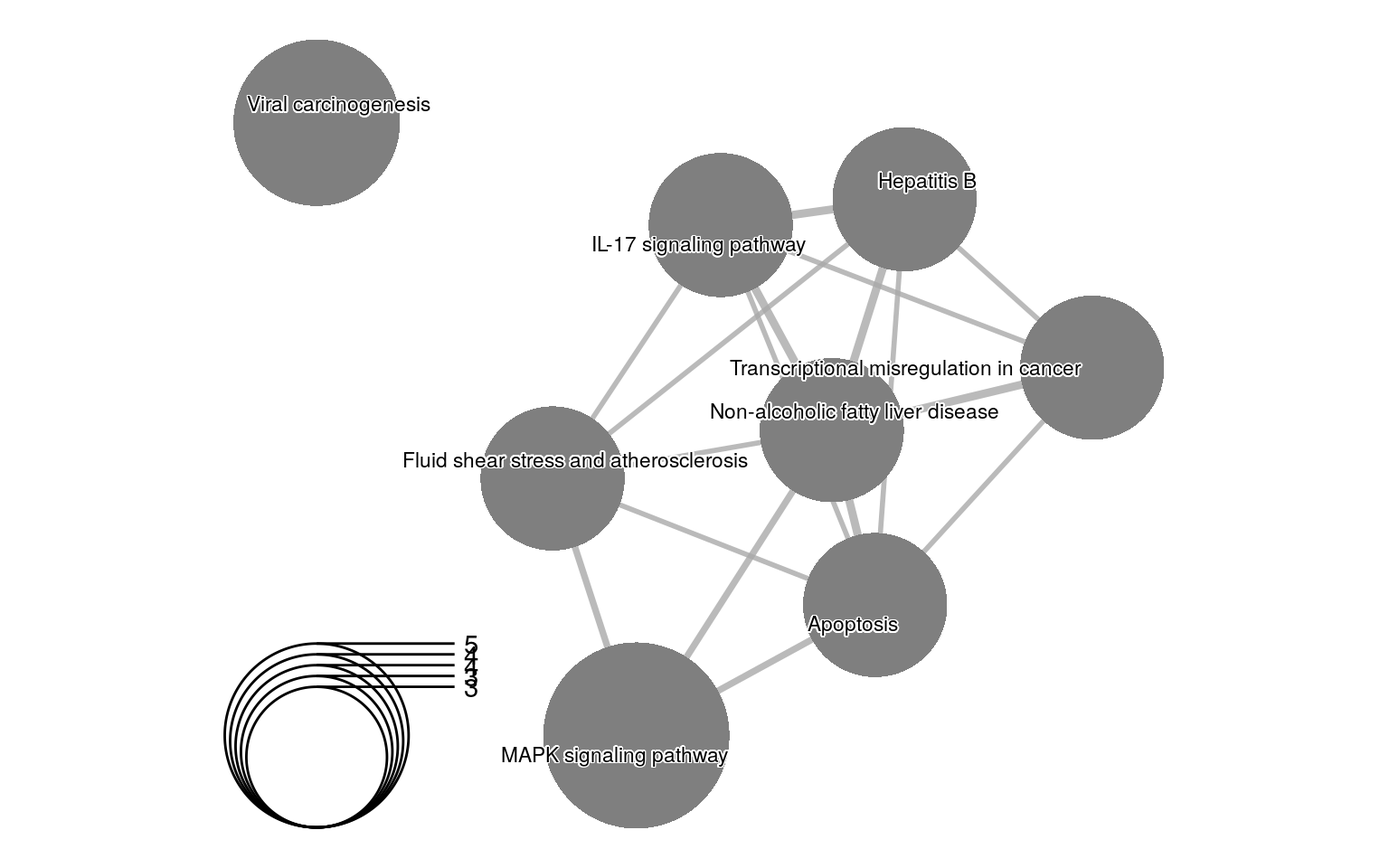
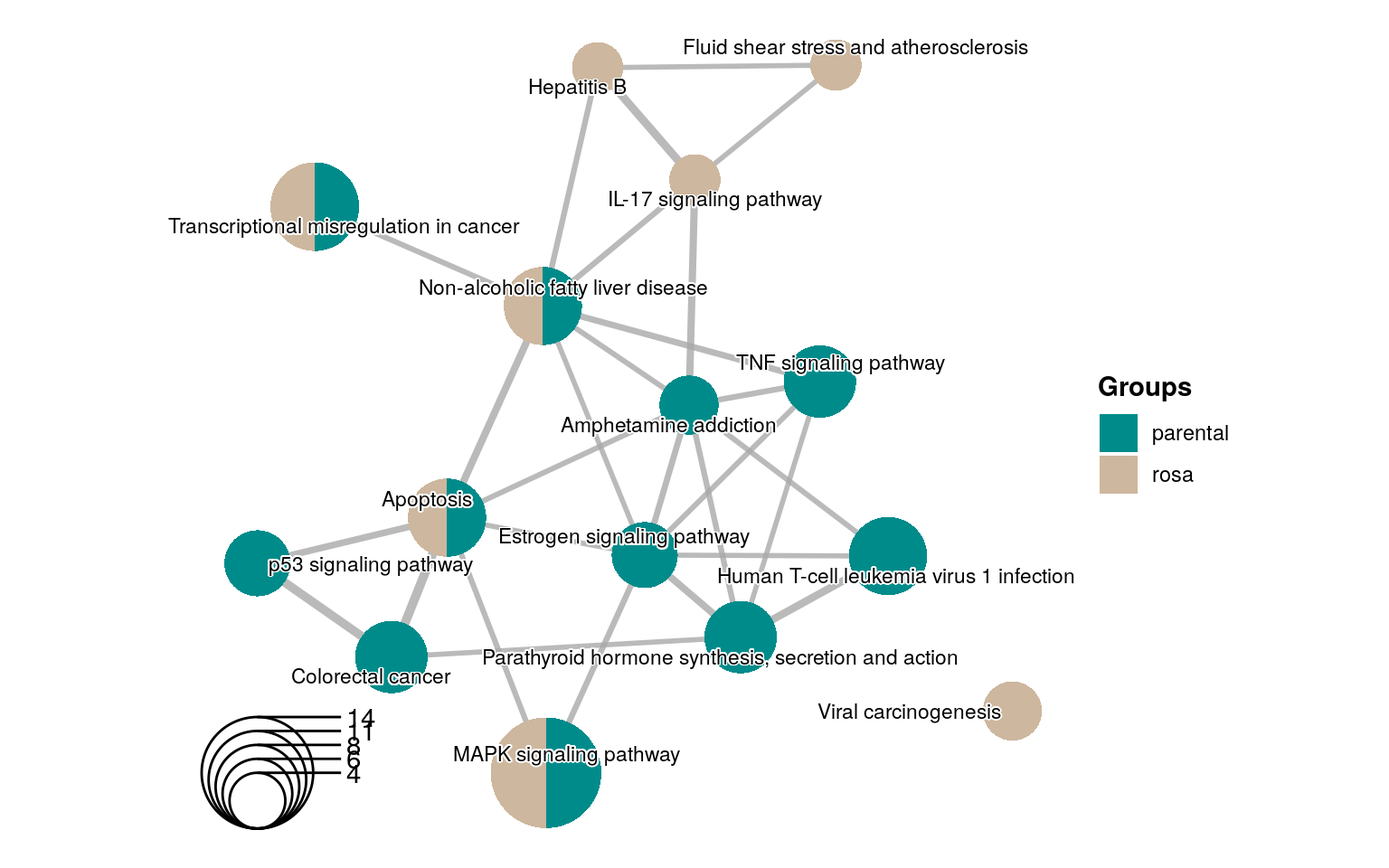
Built site for enrichViewNet: 1.1.1@1960a10

Changed region(s): [[0.125, 0.0312, 0.875, 0.9688], [0.5938, 0.7812, 0.75, 0.875], [0.6875, 0.5312, 0.7188, 0.5938]]

diff --git a/articles/enrichViewNet.html b/articles/enrichViewNet.html
@@ -6,7 +6,7 @@
 <meta name="generator" content="pandoc">
 <meta http-equiv="X-UA-Compatible" content="IE=EDGE">
 <meta name="author" content="Astrid Deschênes, Pascal Belleau, Robert L Faure and Maria J Fernandes">
-<meta name="date" content="2024-04-08">
+<meta name="date" content="2024-04-09">
 <title>From functional enrichment results to biological networks</title>
 <script src="enrichViewNet_files/jquery-3.6.0/jquery-3.6.0.min.js"></script><meta name="viewport" content="width=device-width, initial-scale=1">
 <link href="enrichViewNet_files/bootstrap-3.3.5/css/bootstrap.min.css" rel="stylesheet">
@@ -243,7 +243,7 @@ function toggle_visibility(id1) {
 
 <h1 class="title toc-ignore">From functional enrichment results to biological networks</h1>
 <p class="author-name">Astrid Deschênes, Pascal Belleau, Robert L Faure and Maria J Fernandes</p>
-<h4 class="date">8 April 2024</h4>
+<h4 class="date">9 April 2024</h4>
 
 </div>
 
@@ -278,20 +278,21 @@ function toggle_visibility(id1) {
 </ul>
 </li>
 <li>
-<a href="#transforming-enrichment-results-into-an-enrichment-map-with-groups" id="toc-transforming-enrichment-results-into-an-enrichment-map-with-groups"><span class="toc-section-number">8</span> Transforming enrichment results into an enrichment map with groups</a>
+<a href="#transforming-enrichment-results-into-an-enrichment-map-with-groups-from-different-enrichment-analyses" id="toc-transforming-enrichment-results-into-an-enrichment-map-with-groups-from-different-enrichment-analyses"><span class="toc-section-number">8</span> Transforming enrichment results into an enrichment map with groups from different enrichment analyses</a>
 <ul>
 <li><a href="#create-an-enrichment-map-using-multiple-enrichment-analyses" id="toc-create-an-enrichment-map-using-multiple-enrichment-analyses"><span class="toc-section-number">8.1</span> Create an enrichment map using multiple enrichment analyses</a></li>
+<li><a href="#effect-of-seed-value-1" id="toc-effect-of-seed-value-1"><span class="toc-section-number">8.2</span> Effect of <em>seed</em> value</a></li>
+<li><a href="#enrichment-map-customization-1" id="toc-enrichment-map-customization-1"><span class="toc-section-number">8.3</span> Enrichment map customization</a></li>
+</ul>
+</li>
 <li>
-<a href="#create-an-enrichment-map-using-subsections-of-one-enrichment-analysis" id="toc-create-an-enrichment-map-using-subsections-of-one-enrichment-analysis"><span class="toc-section-number">8.2</span> Create an enrichment map using subsections of one enrichment analysis</a>
+<a href="#transforming-enrichment-results-into-an-enrichment-map-with-groups-from-same-enrichment-analysis" id="toc-transforming-enrichment-results-into-an-enrichment-map-with-groups-from-same-enrichment-analysis"><span class="toc-section-number">9</span> Transforming enrichment results into an enrichment map with groups from same enrichment analysis</a>
 <ul>
-<li><a href="#effect-of-seed-value-1" id="toc-effect-of-seed-value-1"><span class="toc-section-number">8.2.1</span> Effect of <em>seed</em> value</a></li>
-<li><a href="#enrichment-map-customization-1" id="toc-enrichment-map-customization-1"><span class="toc-section-number">8.2.2</span> Enrichment map customization</a></li>
+<li><a href="#create-an-enrichment-map-using-subsections-of-one-enrichment-analysis" id="toc-create-an-enrichment-map-using-subsections-of-one-enrichment-analysis"><span class="toc-section-number">9.1</span> Create an enrichment map using subsections of one enrichment analysis</a></li>
 </ul>
 </li>
-</ul>
-</li>
-<li><a href="#acknowledgments" id="toc-acknowledgments"><span class="toc-section-number">9</span> Acknowledgments</a></li>
-<li><a href="#session-info" id="toc-session-info"><span class="toc-section-number">10</span> Session info</a></li>
+<li><a href="#acknowledgments" id="toc-acknowledgments"><span class="toc-section-number">10</span> Acknowledgments</a></li>
+<li><a href="#session-info" id="toc-session-info"><span class="toc-section-number">11</span> Session info</a></li>
 <li><a href="#references" id="toc-references">References</a></li>
 </ul>
 </div>
@@ -301,7 +302,7 @@ Pascal Belleau [aut] (<a href="https://orcid.org/0000-0002-0802-1071" class="ext
 Robert L. Faure [aut] (<a href="https://orcid.org/0000-0003-1798-4723" class="external-link uri">https://orcid.org/0000-0003-1798-4723</a>),
 Maria J. Fernandes [aut] (<a href="https://orcid.org/0000-0002-3973-025X" class="external-link uri">https://orcid.org/0000-0002-3973-025X</a>),
 Alexander Krasnitz [aut],
-David A. Tuveson [aut] (<a href="https://orcid.org/0000-0002-8017-2712" class="external-link uri">https://orcid.org/0000-0002-8017-2712</a>)<br><strong>Version</strong>: 1.1.1<br><strong>Compiled date</strong>: 2024-04-08<br><strong>License</strong>: Artistic-2.0<br></p>
+David A. Tuveson [aut] (<a href="https://orcid.org/0000-0002-8017-2712" class="external-link uri">https://orcid.org/0000-0002-8017-2712</a>)<br><strong>Version</strong>: 1.1.1<br><strong>Compiled date</strong>: 2024-04-09<br><strong>License</strong>: Artistic-2.0<br></p>
 <div class="section level2" number="1">
 <h2 id="licensing">
 <span class="header-section-number">1</span> Licensing<a class="anchor" aria-label="anchor" href="#licensing"></a>
@@ -411,8 +412,9 @@ genes cluster together. This type of graphs facilitate the
 identification of functional modules.</p>
 <div class="figure" style="text-align: center">
 <span style="display:block;" id="fig:graphDemo02"></span>
-<img src="demo_KEGG_emap_v01.jpeg" alt="An enrichment map using significant Kegg terms." width="95%"><p class="caption">
-Figure 2: <span class="caption-title">An enrichment map using significant Kegg terms</span><br></p>
+<img src="demo_KEGG_emap_v01.jpeg" alt="An enrichment map using significant Kegg terms. Edges connecting terms with overlapping genes." width="95%"><p class="caption">
+Figure 2: <span class="caption-title">An enrichment map using significant Kegg terms</span><br>Edges connecting terms with overlapping genes.
+</p>
 </div>
 <p><strong>enrichViewNet</strong> has been submitted to
 <a href="https://www.bioconductor.org/" class="external-link">Bioconductor</a> to aid researchers in carrying
@@ -441,8 +443,8 @@ from <a href="https://bioconductor.org" class="external-link">Bioconductor</a>, 
 <strong>enrichViewNet</strong>:</p>
 <div class="figure" style="text-align: center">
 <span style="display:block;" id="fig:graphWorkflow"></span>
-<img src="Figure_enrichViewNet_workflow_v05.jpg" alt="The enrichViewNet workflow" width="100%"><p class="caption">
-Figure 3: <span class="caption-title">The enrichViewNet workflow</span><br></p>
+<img src="Figure_enrichViewNet_workflow_v05.jpg" alt="The enrichViewNet general workflow" width="100%"><p class="caption">
+Figure 3: <span class="caption-title">The enrichViewNet general workflow</span><br></p>
 </div>
 <p>The principal input of <strong>enrichViewNet</strong> is a functional enrichment
 result in a format identical to the one generated by the CRAN
@@ -582,7 +584,7 @@ data. The Cytoscape software
 is available at the <a href="https://cytoscape.org/" class="external-link">Cytoscape website</a>.</p>
 <div class="figure" style="text-align: center">
 <span style="display:block;" id="fig:cytoscapeLogo01"></span>
-<img src="cy3sticker.png" alt="Cytoscape software logo." width="75%"><p class="caption">
+<img src="cy3sticker.png" alt="Cytoscape software logo." width="55%"><p class="caption">
 Figure 5: <span class="caption-title">Cytoscape software logo</span><br></p>
 </div>
 <p>The Cytoscape network generated by
@@ -626,7 +628,7 @@ is a bit hectic.</p>
 Figure 6: <span class="caption-title">All reactome terms in a gene-term network loaded in Cytoscape</span><br></p>
 </div>
 <p><br></p>
-<p>To address this situation, a updated gene-term network containing only
+<p>To address this situation, an updated gene-term network containing only
 Reactome terms of interest is created.</p>
 <p><br></p>
 <div class="sourceCode" id="cb9"><pre class="downlit sourceCode r">
@@ -760,7 +762,7 @@ is a <em>list</em> and should be saved.</p>
 <span>                evcodes<span class="op">=</span><span class="cn">TRUE</span>,</span>
 <span>                custom_bg<span class="op">=</span><span class="fu"><a href="https://rdrr.io/r/base/unique.html" class="external-link">unique</a></span><span class="op">(</span><span class="va">parentalNapaVsDMSODEG</span><span class="op">$</span><span class="va">EnsemblID</span><span class="op">)</span><span class="op">)</span></span></code></pre></div>
 <p><br></p>
-<p>The gost() function returns an named list of 2 entries:</p>
+<p>The <em>gost()</em> function returns an named list of 2 entries:</p>
 <ul>
 <li>The <strong>result</strong> entry contains the enrichment results.</li>
 <li>The <strong>meta</strong> entry contains the metadata information.</li>
@@ -866,11 +868,11 @@ description for clarity.</p>
 <span>                    source<span class="op">=</span><span class="st">"TERM_ID"</span>, termIDs<span class="op">=</span><span class="va">termID</span><span class="op">)</span></span></code></pre></div>
 <div class="figure" style="text-align: center">
 <span style="display:block;" id="fig:runCreateEmapTerms"></span>
-<img src="enrichViewNet_files/figure-html/runCreateEmapTerms-1.png" alt="A Kegg enrichment map where terms with overlapping significant genes cluster together." width="100%"><p class="caption">
-Figure 10: <span class="caption-title">A Kegg enrichment map where terms with overlapping significant genes cluster together</span><br></p>
+<img src="enrichViewNet_files/figure-html/runCreateEmapTerms-1.png" alt="An enrichment map showing only the user selected terms." width="100%"><p class="caption">
+Figure 10: <span class="caption-title">An enrichment map showing only the user selected terms</span><br></p>
 </div>
 <p><br></p>
-<p>The description “MAPK signaling pathway” is present twice. The ID of each
+<p>As the description “MAPK signaling pathway” is present twice, the ID of each
 term has been added to the end of the description. Hence, the MAPK pathway
 from WikiPathway can be distinguished from the Kegg pathway.</p>
 <p><br></p>
@@ -892,8 +894,8 @@ the <em>seed</em> value, you might want to test few <em>seed</em> values, using 
 <span>                    source<span class="op">=</span><span class="st">"KEGG"</span><span class="op">)</span></span></code></pre></div>
 <div class="figure" style="text-align: center">
 <span style="display:block;" id="fig:runCreateEmap02"></span>
-<img src="enrichViewNet_files/figure-html/runCreateEmap02-1.png" alt="An enrichment map with personalized colors." width="100%"><p class="caption">
-Figure 11: <span class="caption-title">An enrichment map with personalized colors</span><br></p>
+<img src="enrichViewNet_files/figure-html/runCreateEmap02-1.png" alt="An enrichment map with a different seed." width="100%"><p class="caption">
+Figure 11: <span class="caption-title">An enrichment map with a different seed</span><br></p>
 </div>
 <p><br></p>
 </div>
@@ -930,12 +932,14 @@ Figure 12: <span class="caption-title">An enrichment map with personalized color
 </div>
 </div>
 <div class="section level2" number="8">
-<h2 id="transforming-enrichment-results-into-an-enrichment-map-with-groups">
-<span class="header-section-number">8</span> Transforming enrichment results into an enrichment map with groups<a class="anchor" aria-label="anchor" href="#transforming-enrichment-results-into-an-enrichment-map-with-groups"></a>
+<h2 id="transforming-enrichment-results-into-an-enrichment-map-with-groups-from-different-enrichment-analyses">
+<span class="header-section-number">8</span> Transforming enrichment results into an enrichment map with groups from different enrichment analyses<a class="anchor" aria-label="anchor" href="#transforming-enrichment-results-into-an-enrichment-map-with-groups-from-different-enrichment-analyses"></a>
 </h2>
 <p>The following workflow gives an overview of the steps associated to the
 creation of an enrichment map with groups. Groups can be created from the
-same enrichment analysis or can come from different enrichment analyses.</p>
+same enrichment analysis or can come from different enrichment analyses. This
+section is specifically for enrichment maps created using multiple enrichment
+analyses.</p>
 <p>The key steps for the workflow are:</p>
 <div class="horizontal-scroll"><table class="table">
 <colgroup>
@@ -948,7 +952,7 @@ same enrichment analysis or can come from different enrichment analyses.</p>
 </tr></thead>
 <tbody>
 <tr class="odd">
-<td>Run one or multiple enrichment analyses</td>
+<td>Run multiple enrichment analyses</td>
 <td><code><a href="https://rdrr.io/pkg/gprofiler2/man/gost.html" class="external-link">gprofiler2::gost()</a></code></td>
 </tr>
 <tr class="even">
@@ -996,7 +1000,11 @@ analysis specific network of terms.</p>
 <span><span class="co">## experiments</span></span>
 <span><span class="fu"><a href="../reference/createEnrichMapMultiBasic.html">createEnrichMapMultiBasic</a></span><span class="op">(</span>gostObjectList<span class="op">=</span><span class="va">gostObjectList</span>,</span>
 <span>    queryList<span class="op">=</span><span class="va">queryList</span>, source<span class="op">=</span><span class="st">"KEGG"</span>, removeRoot<span class="op">=</span><span class="cn">TRUE</span><span class="op">)</span></span></code></pre></div>
-<p><img src="enrichViewNet_files/figure-html/emapMulti01-1.png" width="100%"></p>
+<div class="figure" style="text-align: center">
+<span style="display:block;" id="fig:emapMulti01"></span>
+<img src="enrichViewNet_files/figure-html/emapMulti01-1.png" alt="An enrichment map containing Kegg enrichment results for 2 different experiments." width="100%"><p class="caption">
+Figure 13: <span class="caption-title">An enrichment map containing Kegg enrichment results for 2 different experiments</span><br></p>
+</div>
 <p><br></p>
 <p>There are 4 KEGG enrichment terms that are shared by the 2 experiments.
 In additions, the <em>Viral carinogenesis</em> term is the only term that is not
@@ -1004,12 +1012,99 @@ related to the other KEGG terms.</p>
 <p><br></p>
 </div>
 <div class="section level3" number="8.2">
+<h3 id="effect-of-seed-value-1">
+<span class="header-section-number">8.2</span> Effect of <em>seed</em> value<a class="anchor" aria-label="anchor" href="#effect-of-seed-value-1"></a>
+</h3>
+<p>The layering of the nodes is not always optimal. As the layering is affected by
+the <em>seed</em> value, you might want to test few <em>seed</em> values, using the
+<em>set.seed()</em> function, before selecting the final graph.</p>
+<div class="sourceCode" id="cb25"><pre class="downlit sourceCode r">
+<code class="sourceCode R"><span><span class="co">## Set seed to ensure reproducible results</span></span>
+<span><span class="fu"><a href="https://rdrr.io/r/base/Random.html" class="external-link">set.seed</a></span><span class="op">(</span><span class="fl">5</span><span class="op">)</span></span>
+<span></span>
+<span><span class="co">## Enrichment map where the groups are the KEGG results for the 2 different</span></span>
+<span><span class="co">## experiments</span></span>
+<span><span class="fu"><a href="../reference/createEnrichMapMultiBasic.html">createEnrichMapMultiBasic</a></span><span class="op">(</span>gostObjectList<span class="op">=</span><span class="va">gostObjectList</span>,</span>
+<span>    queryList<span class="op">=</span><span class="va">queryList</span>, source<span class="op">=</span><span class="st">"KEGG"</span>, removeRoot<span class="op">=</span><span class="cn">TRUE</span><span class="op">)</span></span></code></pre></div>
+<div class="figure" style="text-align: center">
+<span style="display:block;" id="fig:emapMultiSeed"></span>
+<img src="enrichViewNet_files/figure-html/emapMultiSeed-1.png" alt="An enrichment map using the same data fromt the previous one but with a different seed." width="100%"><p class="caption">
+Figure 14: <span class="caption-title">An enrichment map using the same data fromt the previous one but with a different seed</span><br></p>
+</div>
+<p><br></p>
+</div>
+<div class="section level3" number="8.3">
+<h3 id="enrichment-map-customization-1">
+<span class="header-section-number">8.3</span> Enrichment map customization<a class="anchor" aria-label="anchor" href="#enrichment-map-customization-1"></a>
+</h3>
+<p>The output of the <em>createEnrichMapMultiBasic()</em> function is a <em>ggplot</em> object.
+This means that the graph can be personalized. For example, the default
+colors, legend title and legend font can be changed:</p>
+<div class="sourceCode" id="cb26"><pre class="downlit sourceCode r">
+<code class="sourceCode R"><span><span class="co">## Required library</span></span>
+<span><span class="kw"><a href="https://rdrr.io/r/base/library.html" class="external-link">library</a></span><span class="op">(</span><span class="va"><a href="https://ggplot2.tidyverse.org" class="external-link">ggplot2</a></span><span class="op">)</span></span>
+<span></span>
+<span><span class="co">## Set seed to ensure reproducible results</span></span>
+<span><span class="fu"><a href="https://rdrr.io/r/base/Random.html" class="external-link">set.seed</a></span><span class="op">(</span><span class="fl">5</span><span class="op">)</span></span>
+<span></span>
+<span><span class="co">## Enrichment map where the groups are the KEGG results for the 2 different</span></span>
+<span><span class="co">## experiments</span></span>
+<span><span class="fu"><a href="../reference/createEnrichMapMultiBasic.html">createEnrichMapMultiBasic</a></span><span class="op">(</span>gostObjectList<span class="op">=</span><span class="va">gostObjectList</span>,</span>
+<span>    queryList<span class="op">=</span><span class="va">queryList</span>, source<span class="op">=</span><span class="st">"KEGG"</span>, removeRoot<span class="op">=</span><span class="cn">TRUE</span><span class="op">)</span> <span class="op">+</span></span>
+<span>        <span class="fu"><a href="https://ggplot2.tidyverse.org/reference/scale_manual.html" class="external-link">scale_fill_manual</a></span><span class="op">(</span>name<span class="op">=</span><span class="st">"Groups"</span>,</span>
+<span>                breaks <span class="op">=</span> <span class="va">queryList</span>,</span>
+<span>                values <span class="op">=</span> <span class="fu"><a href="https://rdrr.io/r/base/c.html" class="external-link">c</a></span><span class="op">(</span><span class="st">"cyan4"</span>, <span class="st">"bisque3"</span><span class="op">)</span>,</span>
+<span>                labels <span class="op">=</span> <span class="fu"><a href="https://rdrr.io/r/base/c.html" class="external-link">c</a></span><span class="op">(</span><span class="st">"parental"</span>, <span class="st">"rosa"</span><span class="op">)</span><span class="op">)</span> <span class="op">+</span></span>
+<span>        <span class="fu"><a href="https://ggplot2.tidyverse.org/reference/theme.html" class="external-link">theme</a></span><span class="op">(</span>legend.title <span class="op">=</span> <span class="fu"><a href="https://ggplot2.tidyverse.org/reference/element.html" class="external-link">element_text</a></span><span class="op">(</span>face<span class="op">=</span><span class="st">"bold"</span><span class="op">)</span><span class="op">)</span></span></code></pre></div>
+<div class="figure">
+<span style="display:block;" id="fig:emapMultiCustom"></span>
+<img src="enrichViewNet_files/figure-html/emapMultiCustom-1.png" alt="An enrichment map with multiple groups and personalized colors." width="100%"><p class="caption">
+Figure 15: <span class="caption-title">An enrichment map with multiple groups and personalized colors</span><br></p>
+</div>
+<p><br><br></p>
+</div>
+</div>
+<div class="section level2" number="9">
+<h2 id="transforming-enrichment-results-into-an-enrichment-map-with-groups-from-same-enrichment-analysis">
+<span class="header-section-number">9</span> Transforming enrichment results into an enrichment map with groups from same enrichment analysis<a class="anchor" aria-label="anchor" href="#transforming-enrichment-results-into-an-enrichment-map-with-groups-from-same-enrichment-analysis"></a>
+</h2>
+<p>The following workflow gives an overview of the steps associated to the
+creation of an enrichment map with groups. Groups can be created from the
+same enrichment analysis or can come from different enrichment analyses. This
+section is specifically for enrichment maps containing groups created using
+one enrichment analysis.</p>
+<p>The key steps for the workflow are:</p>
+<div class="horizontal-scroll"><table class="table">
+<colgroup>
+<col width="60%">
+<col width="40%">
+</colgroup>
+<thead><tr class="header">
+<th>Step</th>
+<th>Function</th>
+</tr></thead>
+<tbody>
+<tr class="odd">
+<td>Run one enrichment analysis</td>
+<td><code><a href="https://rdrr.io/pkg/gprofiler2/man/gost.html" class="external-link">gprofiler2::gost()</a></code></td>
+</tr>
+<tr class="even">
+<td>Create an enrichment map with group</td>
+<td><code>createEnrichMapMulti()</code></td>
+</tr>
+</tbody>
+</table></div>
+<p>The <code>package::function()</code> notation is used for functions from other packages.</p>
+<p><br></p>
+<p>The first step has been presented in the previous section.</p>
+<p><br></p>
+<div class="section level3" number="9.1">
 <h3 id="create-an-enrichment-map-using-subsections-of-one-enrichment-analysis">
-<span class="header-section-number">8.2</span> Create an enrichment map using subsections of one enrichment analysis<a class="anchor" aria-label="anchor" href="#create-an-enrichment-map-using-subsections-of-one-enrichment-analysis"></a>
+<span class="header-section-number">9.1</span> Create an enrichment map using subsections of one enrichment analysis<a class="anchor" aria-label="anchor" href="#create-an-enrichment-map-using-subsections-of-one-enrichment-analysis"></a>
 </h3>
 <p>An enrichment map can generate enrichment results from one enrichment
 analysis with terms from different sources in different colors.</p>
-<div class="sourceCode" id="cb25"><pre class="downlit sourceCode r">
+<div class="sourceCode" id="cb27"><pre class="downlit sourceCode r">
 <code class="sourceCode R"><span><span class="co">## Set seed to ensure reproducible results</span></span>
 <span><span class="fu"><a href="https://rdrr.io/r/base/Random.html" class="external-link">set.seed</a></span><span class="op">(</span><span class="fl">2121</span><span class="op">)</span></span>
 <span></span>
@@ -1033,67 +1128,19 @@ analysis with terms from different sources in different colors.</p>
 <span><span class="co">## experiments</span></span>
 <span><span class="fu"><a href="../reference/createEnrichMapMultiBasic.html">createEnrichMapMultiBasic</a></span><span class="op">(</span>gostObjectList<span class="op">=</span><span class="va">gostObjectList</span>,</span>
 <span>    queryList<span class="op">=</span><span class="va">queryList</span>, source<span class="op">=</span><span class="st">"KEGG"</span>, removeRoot<span class="op">=</span><span class="cn">TRUE</span><span class="op">)</span></span></code></pre></div>
-<p><img src="enrichViewNet_files/figure-html/emapMulti02-1.png" width="100%"></p>
+<div class="figure" style="text-align: center">
+<span style="display:block;" id="fig:emapMultiComplex01"></span>
+<img src="enrichViewNet_files/figure-html/emapMultiComplex01-1.png" alt="An enrichment map containing TODO for one enrichment analysis." width="100%"><p class="caption">
+Figure 16: <span class="caption-title">An enrichment map containing TODO for one enrichment analysis</span><br></p>
+</div>
 <p><br></p>
 <p>TODO</p>
-<p><br></p>
-<div class="section level4" number="8.2.1">
-<h4 id="effect-of-seed-value-1">
-<span class="header-section-number">8.2.1</span> Effect of <em>seed</em> value<a class="anchor" aria-label="anchor" href="#effect-of-seed-value-1"></a>
-</h4>
-<p>The layering of the nodes is not always optimal. As the layering is affected by
-the <em>seed</em> value, you might want to test few <em>seed</em> values, using the
-<em>set.seed()</em> function, before selecting the final graph.</p>
-<div class="sourceCode" id="cb26"><pre class="downlit sourceCode r">
-<code class="sourceCode R"><span><span class="co">## Set seed to ensure reproducible results</span></span>
-<span><span class="fu"><a href="https://rdrr.io/r/base/Random.html" class="external-link">set.seed</a></span><span class="op">(</span><span class="fl">5</span><span class="op">)</span></span>
-<span></span>
-<span><span class="co">## Enrichment map where the groups are the KEGG results for the 2 different</span></span>
-<span><span class="co">## experiments</span></span>
-<span><span class="fu"><a href="../reference/createEnrichMapMultiBasic.html">createEnrichMapMultiBasic</a></span><span class="op">(</span>gostObjectList<span class="op">=</span><span class="va">gostObjectList</span>,</span>
-<span>    queryList<span class="op">=</span><span class="va">queryList</span>, source<span class="op">=</span><span class="st">"KEGG"</span>, removeRoot<span class="op">=</span><span class="cn">TRUE</span><span class="op">)</span></span></code></pre></div>
-<div class="figure" style="text-align: center">
-<span style="display:block;" id="fig:emapMultiSeed"></span>
-<img src="enrichViewNet_files/figure-html/emapMultiSeed-1.png" alt="An enrichment map with a different seed." width="100%"><p class="caption">
-Figure 13: <span class="caption-title">An enrichment map with a different seed</span><br></p>
-</div>
-<p><br></p>
-</div>
-<div class="section level4" number="8.2.2">
-<h4 id="enrichment-map-customization-1">
-<span class="header-section-number">8.2.2</span> Enrichment map customization<a class="anchor" aria-label="anchor" href="#enrichment-map-customization-1"></a>
-</h4>
-<p>The output of the <em>createEnrichMapMulti()</em> function is a <em>ggplot</em> object.
-This means that the graph can be personalized. For example, the default
-colors, legend title and legend font can be changed:</p>
-<div class="sourceCode" id="cb27"><pre class="downlit sourceCode r">
-<code class="sourceCode R"><span><span class="co">## Required library</span></span>
-<span><span class="kw"><a href="https://rdrr.io/r/base/library.html" class="external-link">library</a></span><span class="op">(</span><span class="va"><a href="https://ggplot2.tidyverse.org" class="external-link">ggplot2</a></span><span class="op">)</span></span>
-<span></span>
-<span><span class="co">## Set seed to ensure reproducible results</span></span>
-<span><span class="fu"><a href="https://rdrr.io/r/base/Random.html" class="external-link">set.seed</a></span><span class="op">(</span><span class="fl">2121</span><span class="op">)</span></span>
-<span></span>
-<span><span class="co">## Enrichment map where the groups are the KEGG results for the 2 different</span></span>
-<span><span class="co">## experiments</span></span>
-<span><span class="fu"><a href="../reference/createEnrichMapMultiBasic.html">createEnrichMapMultiBasic</a></span><span class="op">(</span>gostObjectList<span class="op">=</span><span class="va">gostObjectList</span>,</span>
-<span>    queryList<span class="op">=</span><span class="va">queryList</span>, source<span class="op">=</span><span class="st">"KEGG"</span>, removeRoot<span class="op">=</span><span class="cn">TRUE</span><span class="op">)</span> <span class="op">+</span> </span>
-<span>        <span class="fu"><a href="https://ggplot2.tidyverse.org/reference/scale_manual.html" class="external-link">scale_fill_manual</a></span><span class="op">(</span>name<span class="op">=</span><span class="st">"Groups"</span>,</span>
-<span>                            breaks <span class="op">=</span> <span class="va">queryList</span>,</span>
-<span>                            values <span class="op">=</span> <span class="fu"><a href="https://rdrr.io/r/base/c.html" class="external-link">c</a></span><span class="op">(</span><span class="st">"cyan4"</span>, <span class="st">"bisque3"</span><span class="op">)</span>,</span>
-<span>                            labels <span class="op">=</span> <span class="fu"><a href="https://rdrr.io/r/base/c.html" class="external-link">c</a></span><span class="op">(</span><span class="st">"parental"</span>, <span class="st">"rosa"</span><span class="op">)</span><span class="op">)</span> <span class="op">+</span></span>
-<span>        <span class="fu"><a href="https://ggplot2.tidyverse.org/reference/theme.html" class="external-link">theme</a></span><span class="op">(</span>legend.title <span class="op">=</span> <span class="fu"><a href="https://ggplot2.tidyverse.org/reference/element.html" class="external-link">element_text</a></span><span class="op">(</span>face<span class="op">=</span><span class="st">"bold"</span><span class="op">)</span><span class="op">)</span></span></code></pre></div>
-<div class="figure">
-<span style="display:block;" id="fig:emapMultiCustom"></span>
-<img src="enrichViewNet_files/figure-html/emapMultiCustom-1.png" alt="An enrichment map with different colors." width="100%"><p class="caption">
-Figure 14: <span class="caption-title">An enrichment map with different colors</span><br></p>
-</div>
 <p><br><br></p>
 </div>
 </div>
-</div>
-<div class="section level2" number="9">
+<div class="section level2" number="10">
 <h2 id="acknowledgments">
-<span class="header-section-number">9</span> Acknowledgments<a class="anchor" aria-label="anchor" href="#acknowledgments"></a>
+<span class="header-section-number">10</span> Acknowledgments<a class="anchor" aria-label="anchor" href="#acknowledgments"></a>
 </h2>
 <p>The differentially expressed genes between napabucasin-treated cells (0.5 uM)
 and DMSO as vehicle control are reprinted from
@@ -1108,9 +1155,9 @@ cancer cell death, with permission from AACR.</p>
 Research Council of Canada (NSERCC): 155751-1501.</p>
 <p><br><br></p>
 </div>
-<div class="section level2" number="10">
+<div class="section level2" number="11">
 <h2 id="session-info">
-<span class="header-section-number">10</span> Session info<a class="anchor" aria-label="anchor" href="#session-info"></a>
+<span class="header-section-number">11</span> Session info<a class="anchor" aria-label="anchor" href="#session-info"></a>
 </h2>
 <p>Here is the output of sessionInfo() on the system on which this document
 was compiled:</p>

diff --git a/reference/demoGOST.html b/reference/demoGOST.html
@@ -114,7 +114,7 @@ used to test the <code><a href="createNetwork.html">createNetwork</a></code> fun
 <span class="r-msg co"><span class="r-pr">#&gt;</span> Unable to connect to Cytoscape. </span>
 <span class="r-msg co"><span class="r-pr">#&gt;</span> CX JSON file will be created.</span>
 <span class="r-msg co"><span class="r-pr">#&gt;</span> Preparing information for generating CX JSON file.</span>
-<span class="r-msg co"><span class="r-pr">#&gt;</span> CX JSON file "/tmp/RtmpZgbxxp/Wikipathways_Demo.cx" has been created.</span>
+<span class="r-msg co"><span class="r-pr">#&gt;</span> CX JSON file "/tmp/RtmplYndo7/Wikipathways_Demo.cx" has been created.</span>
 <span class="r-out co"><span class="r-pr">#&gt;</span> [1] TRUE</span>
 <span class="r-in"><span></span></span>
 <span class="r-in"><span></span></span>

diff --git a/reference/createNetwork.html b/reference/createNetwork.html
@@ -216,7 +216,7 @@ Default: "gprofilerNetwork_01.cx".</p></dd>
 <span class="r-msg co"><span class="r-pr">#&gt;</span> Unable to connect to Cytoscape. </span>
 <span class="r-msg co"><span class="r-pr">#&gt;</span> CX JSON file will be created.</span>
 <span class="r-msg co"><span class="r-pr">#&gt;</span> Preparing information for generating CX JSON file.</span>
-<span class="r-msg co"><span class="r-pr">#&gt;</span> CX JSON file "/tmp/RtmpZgbxxp/KEGG_demo.cx" has been created.</span>
+<span class="r-msg co"><span class="r-pr">#&gt;</span> CX JSON file "/tmp/RtmplYndo7/KEGG_demo.cx" has been created.</span>
 <span class="r-out co"><span class="r-pr">#&gt;</span> [1] TRUE</span>
 <span class="r-in"><span></span></span>
 <span class="r-in"><span></span></span>
